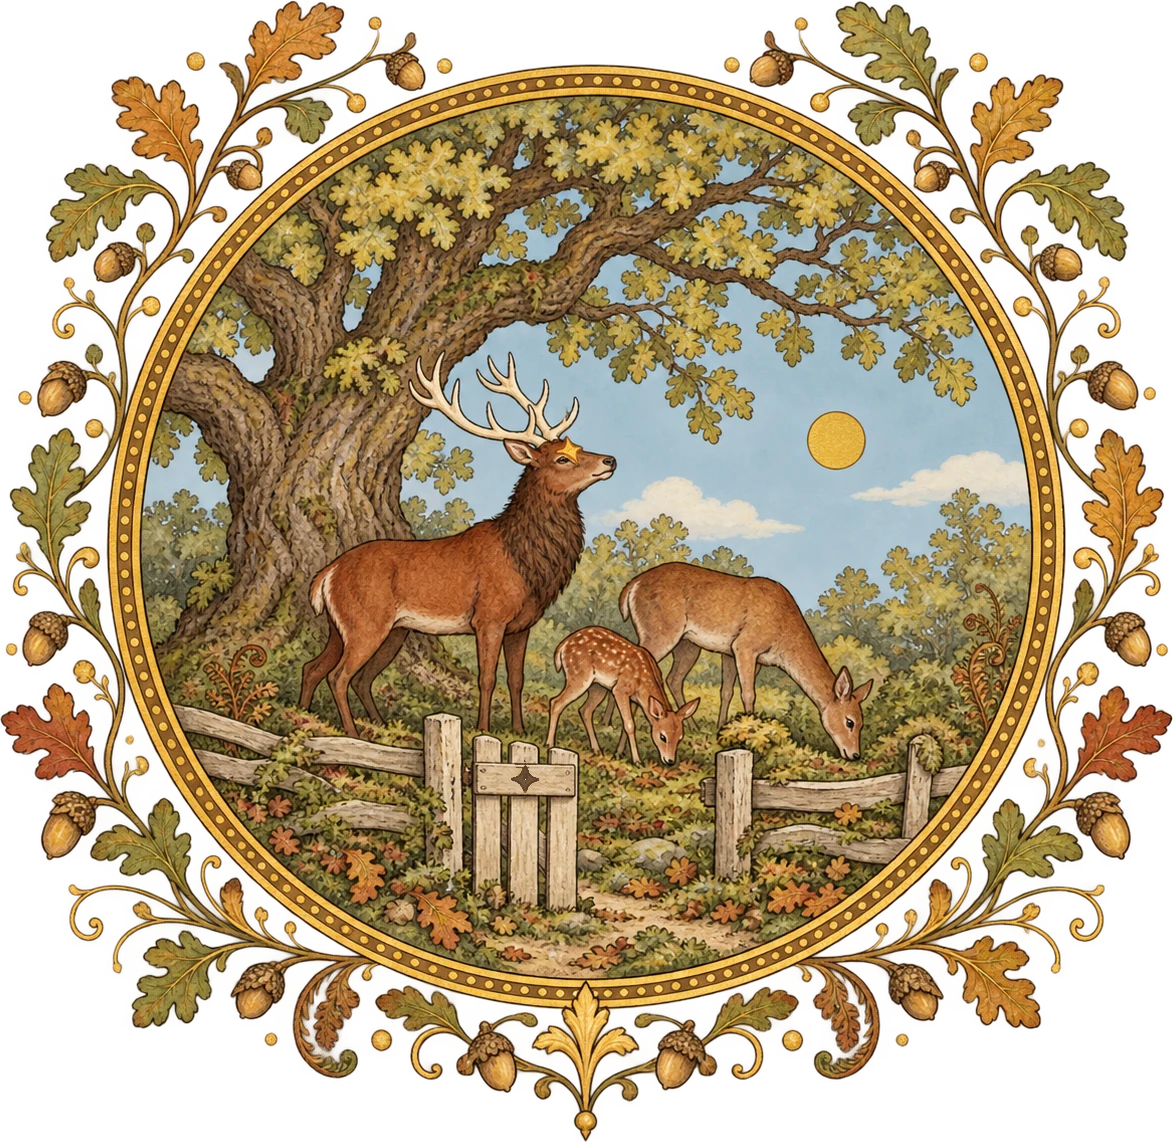
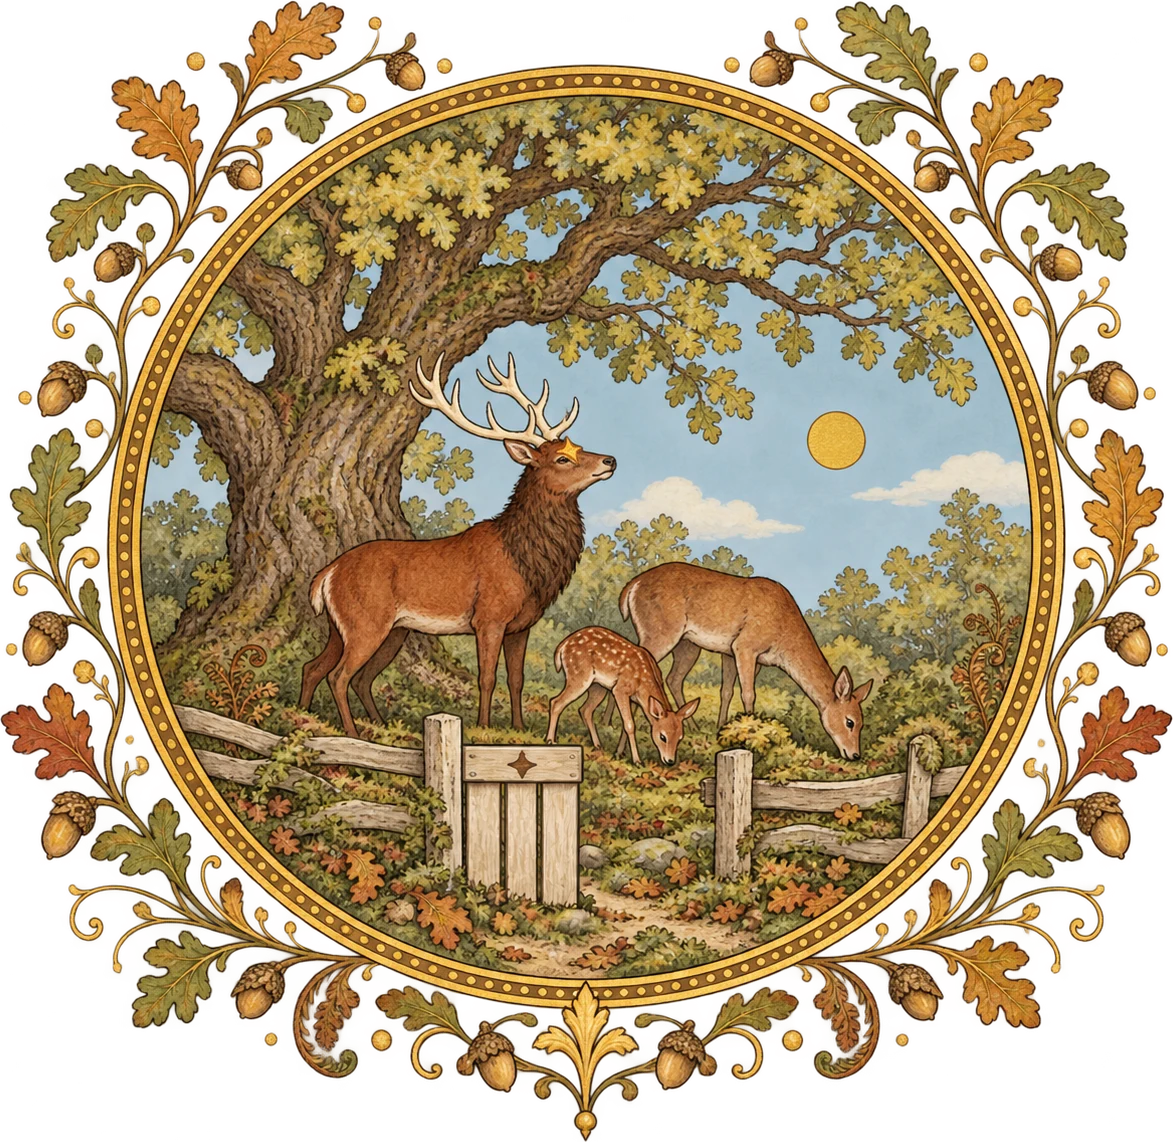
Forest final detail pass: slack rope and an open gate on p9 help-fawn, no ghost shield and Marcin's switch on p5, a gold stag star on p8, flat mist on the title emblem, a carved gate on the closing emblem

Changed region(s): [[0.3683, 0.613, 0.5217, 0.8275]]

diff --git a/src/book/pages.js b/src/book/pages.js
@@ -148,7 +148,7 @@ export const forestSpreads = [
   { page: 6, tailpiece: `${OR}/fleuron.webp`, images: { default: img(`${FO}/p6.webp`, "Agata opiera dłoń o wyłamaną furtkę z pękniętą gwiazdką; Marcin i Gustaw patrzą na świnki, które w szronie znajdują tylko puste czapeczki, a Oliwia z palcem przy brodzie się zastanawia.", "Agata rests her hand on the broken gate with its cracked star; Marcin and Gustaw watch the piglets find only empty cups in the frost, while Oliwia thinks, a finger on her chin.") } },
   { page: 7, tailpiece: `${OR}/oak-wren.webp`, variantFrom: 6, images: { "give-sack": p7GiveSack, "gather-forest": img(`${FO}/p7-gather-forest.webp`, "Wszyscy zbierają żołędzie w lesie: Agata odgarnia liście grabiami, Gustaw ma pełne garście, a jego tarcza stoi oparta o dąb, Oliwia zbiera do torby, a Marcin z pełnymi rękami śmieje się do prosiaczków, które pod bukiem chrupią bukiew.", "Everyone gathers acorns in the forest: Agata rakes the leaves aside, Gustaw has his hands full and his shield propped against an oak, Oliwia fills her satchel, and Marcin, his hands full, laughs at the piglets munching beechnuts under a beech.") } },
   { page: 8, tailpiece: `${OR}/strawberry-snail.webp`, images: { default: img(`${FO}/p8.webp`, "Z mgły wychodzi jeleń ze złotą gwiazdką i łania; złamany konar odciął od nich jelonka, który stoi sam po tej stronie, a wszyscy patrzą z zachwytem przy nowej furtce; Agata trzyma grabie.", "Out of the mist step the stag with a gold star and the doe; a fallen branch has cut the fawn off from them and it stands alone on this side, while everyone watches in wonder by the new gate, Agata holding her rake.") } },
-  { page: 9, tailpiece: `${OR}/hedgehog-clover.webp`, variantFrom: 8, images: { "make-way": p9MakeWay, "help-fawn": img(`${FO}/p9-help-fawn.webp`, "Koniczynka odciągnęła na linie konar ze ścieżki, a Gustaw gładzi ją po szyi; jelonek przytula się do mamy, jeleń z gwiazdką spokojnie patrzy, a dwie łanie wchodzą przez nową furtkę do Matecznika; Oliwia, Marcin i Agata przyglądają się z daleka.", "Koniczynka has pulled the branch off the trail on a rope, and Gustaw strokes her neck; the fawn presses close to its mother, the star stag looks on calmly, and two hinds step through the new gate into the Heartwood; Oliwia, Marcin and Agata watch from a distance.") } },
+  { page: 9, tailpiece: `${OR}/hedgehog-clover.webp`, variantFrom: 8, images: { "make-way": p9MakeWay, "help-fawn": img(`${FO}/p9-help-fawn.webp`, "Koniczynka odciągnęła na linie konar ze ścieżki, lina leży teraz luzem przy konarze, a Gustaw gładzi klacz po szyi; jelonek przytula się do mamy, jeleń z gwiazdką spokojnie patrzy, a dwie łanie wchodzą przez nową furtkę do Matecznika; Oliwia, Marcin i Agata przyglądają się z daleka.", "Koniczynka has pulled the branch off the trail on a rope, which now lies slack beside it, and Gustaw strokes her neck; the fawn presses close to its mother, the star stag looks on calmly, and two hinds step through the new gate into the Heartwood; Oliwia, Marcin and Agata watch from a distance.") } },
   {
     page: 10, layout: "vignette", variantFrom: 8, secondary: img(`${OR}/fleuron.webp`, "Ozdobnik.", "An ornament."),
     images: { "make-way": p10MakeWay, "help-fawn": img(`${FO}/p10-help-fawn.webp`, "Złoty medalion: w południe pod dębem jelonek tuli się do łani, za nimi stoi jeleń z gwiazdką, a odciągnięty konar leży z boku na mchu.", "A gold medallion: at noon under an oak the fawn presses close to the doe, the star stag stands behind them, and the pulled-away branch lies aside on the moss.") },

diff --git a/prototypes/prompts/_build_forest.py b/prototypes/prompts/_build_forest.py
@@ -581,6 +581,43 @@ MIST_FIRST.add("fo-p3-call-backf")
 # own width) and filling the gap with the next fence bay; fo-p3-call-backh's ear is the piglet's own skin texture.
 
 
+# Author 2026-11-01 (after the generator reset): on p9 help-fawn the rope ran tight from the branch to behind the mare;
+# the branch is already aside, so the rope stays tied to it and lies slack on the ground. Plus the reviewer's leftovers.
+again("fo-p9-help-fawn", "fo-p9-help-fawnk", "fo-p9-help-fawnl", "everything except the rope",
+      "The hemp rope is still knotted round the far end of the branch, but now it lies SLACK on the ground in loose loops beside "
+      "the branch, its free end in the grass; it does not rise, does not run to the mare and is not tied to the saddle; "
+      "Koniczynka stands free, nothing pulling.", neg="no taut rope; no rope from the mare or the saddle; no rope in the air")
+again("fo-p5-ask-kindly", "fo-p5-ask-kindlyf", "fo-p5-ask-kindlyg", "everything except the moss at Marcin's feet",
+      "Marcin's one thin hazel switch lies on the moss at his feet, because his hands are busy (one on his chest, one in Oliwia's).",
+      neg="no second stick; no switch in his hands")
+again("fo-p8", "fo-p8k", "fo-p8l", "everything except the star on the stag's brow",
+      "The star on the stag's brow is crisp burnished GOLD LEAF (#c9972b) with a fine dark ink edge, four slim points, clearly gold "
+      "against the red-brown coat, never pale cream; no glow.", neg="no pale or white star; no glow")
+
+# Physical-plausibility review: on p9 help-fawn the gate leaf stood flat in the fence line but covered only half the gap.
+again("fo-p9-help-fawn", "fo-p9-help-fawnm", "fo-p9-help-fawnn", "everything except the gate leaf",
+      "the gate stands WIDE OPEN: its one leaf (" + GATE_FLUSH + ") is swung back on its hinges on the LEFT post, turned edge-on toward "
+      "the Heartwood, seen at an angle and foreshortened, so the whole gateway between the two grey posts is open and the two hinds "
+      "walk through it.", neg="no closed gate; no gate leaf lying flat in the fence line; no second leaf")
+
+# Shipped: fo-p9-help-fawnm = k + the slack rope from l; fo-p9-help-fawno = m + the swung-open gate from n;
+# fo-p5-ask-kindlyh = d + the whole shield area of e (no ghost of the old shield), fo-p5-ask-kindlyi = h + the switch from g;
+# fo-p8m/n = k with the stag's star repainted by hand as crisp gold leaf with an ink edge (generation l stayed soft);
+# fo-p10-make-wayd = make-wayb + the gate from c (c's vines were heavier than the pair's); title: orn-title-forestc whole
+# (b ruled hard stripes across the stag), exported with export_webp.py directly.
+
+def emblem_again(pid, rev, keep, change, extra_neg=""):
+    """Regenerate an emblem from its own take (refs/<pid>-composition.png), changing one thing."""
+    src = (m.HERE / f"{pid}.txt").read_text().split("\n")
+    src[0] += f", {pid}-composition.png"
+    src.append(f"COMPOSITION: the attached COMPOSITION REFERENCE ({pid}-composition.png) is the current take of THIS emblem — "
+               f"keep it exactly ({keep}); the only change: {change} (This overrides the rule above about not copying compositions.)")
+    if extra_neg:
+        src = [l + f"; {extra_neg}." if l.startswith("NEGATIVES:") else l for l in src]
+        src = [l.replace(".; ", "; ") for l in src]
+    (m.HERE / f"{rev}.txt").write_text("\n".join(src))
+
+
 if __name__ == "__main__":
     sheets()
     print("set-forest-oath", "m-sheet-forest", "sheets")
@@ -598,3 +635,10 @@ if __name__ == "__main__":
         pid = EMBLEM_REV.get(variant, f"fo-p10-{variant}")
         emblem_prompt(pid, motif, DAY_GROUND, counts, extra_refs=", orn-title-forest-clean.png")
         print(pid, "emblem")
+    emblem_again("orn-title-forest", "orn-title-forestb", "the gold ring, the vines, the stag, its pose, the oaks, the colours",
+                 "(1) the mist is three or four FLAT, straight, horizontal pale pearl-grey bands lying across the lower part, like the flat bands of a medieval miniature, with no curls, waves or ribbon ends; (2) the sky holds only a few very small plain gold dots, no four-pointed stars, so the one star on the stag's brow stays the only star.", "no curling mist; no wavy ribbons; no four-pointed stars in the sky")
+    # title b drew the mist as hard straight stripes across the stag's chest; c keeps b's gold dots and softens the bands
+    emblem_again("orn-title-forest", "orn-title-forestc", "the gold ring, the vines, the stag, its pose, the oaks, the colours",
+                 "(1) the mist is two or three soft, flat, semi-transparent pale pearl-grey bands lying BEHIND the stag's neck and between the trunks, narrow, gently tapering at their ends like the flat mist bands of a medieval miniature; they never cross the stag's face, neck or chest, never curl and never look like ruled stripes; (2) the sky holds only a few very small plain gold dots, no four-pointed stars, so the one star on the stag's brow stays the only star.", "no curling mist; no wavy ribbons; no hard straight stripes; no mist over the stag; no four-pointed stars in the sky")
+    emblem_again("fo-p10-make-way", "fo-p10-make-wayc", "the gold ring, the vines, the oak, the deer and their poses, the fence, the sun, the colours",
+                 "the gate: ONE pale gate that fills the gap between its two grey posts, three upright pale planks whose tops end FLUSH UNDER one broad pale crossbar (nothing rises above it), and in the centre of the crossbar one four-pointed star CARVED as a darker brown groove in the wood.", "no rivets; no metal plate; no iron star; no plank above the crossbar; no gap beside the gate")
